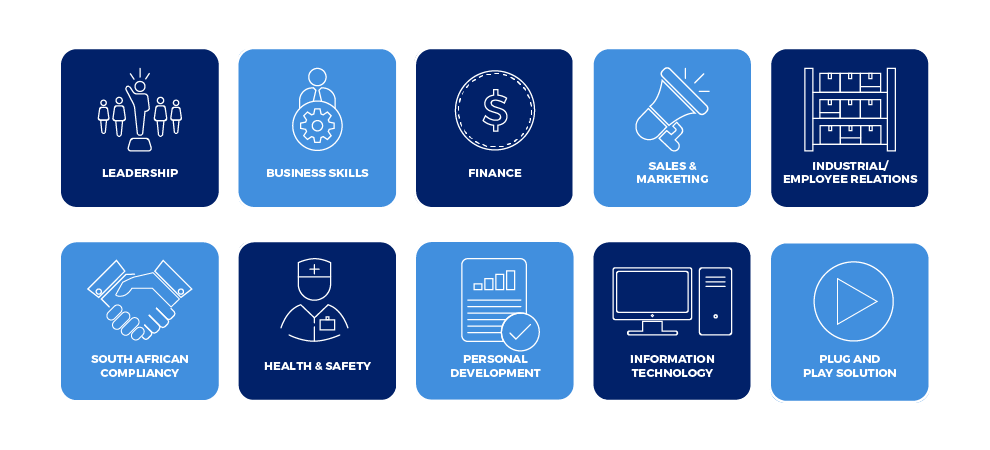
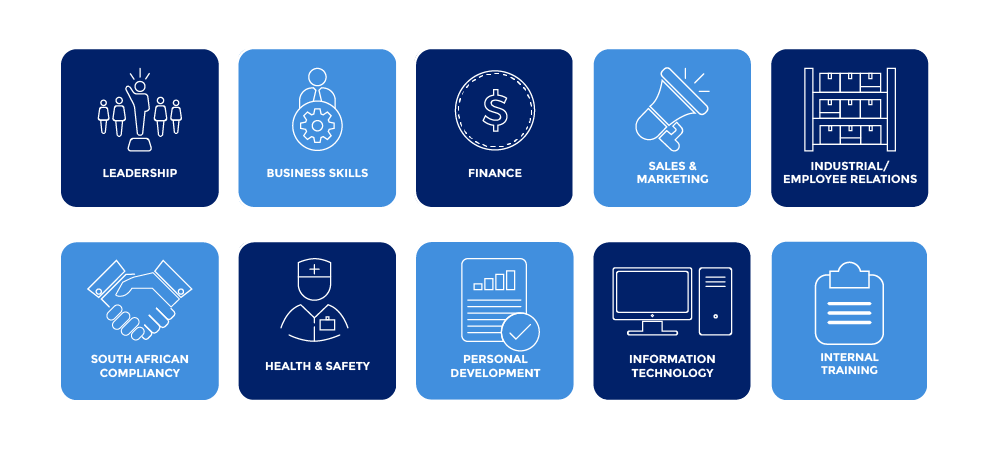
Add files via upload

diff --git a/css/index.css b/css/index.css
@@ -1,1 +1,1 @@
-.version.index{color:#0000F5;background-color:#93675B;}#page{z-index:1;width:989px;min-height:405px;background-image:none;border-width:0px;border-color:#000000;background-color:transparent;margin-left:auto;margin-right:auto;}#u94{z-index:2;width:990px;background-color:transparent;position:relative;margin-right:-10000px;margin-top:-44px;}#u104{z-index:4;width:150px;height:154px;-webkit-transition-duration:1s;-webkit-transition-delay:0s;-webkit-transition-timing-function:ease-in-out;transition-duration:1s;transition-delay:0s;transition-timing-function:ease-in-out;background-image:url("../images/blank.gif?crc=4208392903");background-color:transparent;opacity:0.42;-ms-filter:"progid:DXImageTransform.Microsoft.Alpha(Opacity=42)";filter:alpha(opacity=42);border-radius:25px;position:relative;margin-right:-10000px;margin-top:7px;left:419px;}.ie #u104{background-color:#FFFFFF;opacity:0.01;-ms-filter:"progid:DXImageTransform.Microsoft.Alpha(Opacity=1)";filter:alpha(opacity=1);}#u104:hover{background-color:#012169;opacity:0.65;-ms-filter:"progid:DXImageTransform.Microsoft.Alpha(Opacity=65)";filter:alpha(opacity=65);border-radius:17px;width:150px;height:154px;min-height:0px;margin:7px -10000px 0px 0px;}.ie #u104:hover{opacity:0.65;-ms-filter:"progid:DXImageTransform.Microsoft.Alpha(Opacity=65)";filter:alpha(opacity=65);}#u104:active{-webkit-transition-duration:1s;-webkit-transition-delay:0s;-webkit-transition-timing-function:ease-in-out;transition-duration:1s;transition-delay:0s;transition-timing-function:ease-in-out;background-color:#012169;opacity:0.65;-ms-filter:"progid:DXImageTransform.Microsoft.Alpha(Opacity=65)";filter:alpha(opacity=65);border-radius:17px;width:150px;height:154px;min-height:0px;margin:7px -10000px 0px 0px;}#u121{z-index:5;width:154px;height:153px;-webkit-transition-duration:1s;-webkit-transition-delay:0s;-webkit-transition-timing-function:ease-in-out;transition-duration:1s;transition-delay:0s;transition-timing-function:ease-in-out;background-image:url("../images/blank.gif?crc=4208392903");background-color:transparent;opacity:0.42;-ms-filter:"progid:DXImageTransform.Microsoft.Alpha(Opacity=42)";filter:alpha(opacity=42);border-radius:25px;position:relative;margin-right:-10000px;margin-top:8px;left:62px;}.ie #u121{background-color:#FFFFFF;opacity:0.01;-ms-filter:"progid:DXImageTransform.Microsoft.Alpha(Opacity=1)";filter:alpha(opacity=1);}#u121:hover{-webkit-transition-duration:1s;-webkit-transition-delay:0s;-webkit-transition-timing-function:ease-in-out;transition-duration:1s;transition-delay:0s;transition-timing-function:ease-in-out;background-color:#012169;opacity:0.65;-ms-filter:"progid:DXImageTransform.Microsoft.Alpha(Opacity=65)";filter:alpha(opacity=65);border-radius:17px;width:154px;height:153px;min-height:0px;margin:8px -10000px 0px 0px;}#u130{z-index:6;width:153px;height:155px;-webkit-transition-duration:1s;-webkit-transition-delay:0s;-webkit-transition-timing-function:ease-in-out;transition-duration:1s;transition-delay:0s;transition-timing-function:ease-in-out;background-image:url("../images/blank.gif?crc=4208392903");background-color:transparent;opacity:0.42;-ms-filter:"progid:DXImageTransform.Microsoft.Alpha(Opacity=42)";filter:alpha(opacity=42);border-radius:25px;position:relative;margin-right:-10000px;margin-top:199px;left:240px;}.ie #u130{background-color:#FFFFFF;opacity:0.01;-ms-filter:"progid:DXImageTransform.Microsoft.Alpha(Opacity=1)";filter:alpha(opacity=1);}#u130:hover{-webkit-transition-duration:1s;-webkit-transition-delay:0s;-webkit-transition-timing-function:ease-in-out;transition-duration:1s;transition-delay:0s;transition-timing-function:ease-in-out;background-color:#012169;opacity:0.65;-ms-filter:"progid:DXImageTransform.Microsoft.Alpha(Opacity=65)";filter:alpha(opacity=65);border-radius:17px;width:153px;height:155px;min-height:0px;margin:199px -10000px 0px 0px;}#u136{z-index:7;width:155px;height:155px;-webkit-transition-duration:1s;-webkit-transition-delay:0s;-webkit-transition-timing-function:ease-in-out;transition-duration:1s;transition-delay:0s;transition-timing-function:ease-in-out;background-image:url("../images/blank.gif?crc=4208392903");background-color:transparent;opacity:0.42;-ms-filter:"progid:DXImageTransform.Microsoft.Alpha(Opacity=42)";filter:alpha(opacity=42);border-radius:25px;position:relative;margin-right:-10000px;margin-top:200px;left:594px;}.ie #u136{background-color:#FFFFFF;opacity:0.01;-ms-filter:"progid:DXImageTransform.Microsoft.Alpha(Opacity=1)";filter:alpha(opacity=1);}#u136:hover{-webkit-transition-duration:1s;-webkit-transition-delay:0s;-webkit-transition-timing-function:ease-in-out;transition-duration:1s;transition-delay:0s;transition-timing-function:ease-in-out;background-color:#012169;opacity:0.65;-ms-filter:"progid:DXImageTransform.Microsoft.Alpha(Opacity=65)";filter:alpha(opacity=65);border-radius:17px;width:155px;height:155px;min-height:0px;margin:200px -10000px 0px 0px;}#u118{z-index:8;width:153px;height:154px;-webkit-transition-duration:1s;-webkit-transition-delay:0s;-webkit-transition-timing-function:ease-in-out;transition-duration:1s;transition-delay:0s;transition-timing-function:ease-in-out;background-image:url("../images/blank.gif?crc=4208392903");background-color:transparent;opacity:0.42;-ms-filter:"progid:DXImageTransform.Microsoft.Alpha(Opacity=42)";filter:alpha(opacity=42);border-radius:25px;position:relative;margin-right:-10000px;margin-top:7px;left:773px;}.ie #u118{background-color:#FFFFFF;opacity:0.01;-ms-filter:"progid:DXImageTransform.Microsoft.Alpha(Opacity=1)";filter:alpha(opacity=1);}#u118:hover{background-color:#012169;opacity:0.65;-ms-filter:"progid:DXImageTransform.Microsoft.Alpha(Opacity=65)";filter:alpha(opacity=65);border-radius:17px;width:153px;height:154px;min-height:0px;margin:7px -10000px 0px 0px;}#u107{z-index:9;width:155px;height:154px;-webkit-transition-duration:1s;-webkit-transition-delay:0s;-webkit-transition-timing-function:ease-in-out;transition-duration:1s;transition-delay:0s;transition-timing-function:ease-in-out;background-image:url("../images/blank.gif?crc=4208392903");background-color:transparent;opacity:0.42;-ms-filter:"progid:DXImageTransform.Microsoft.Alpha(Opacity=42)";filter:alpha(opacity=42);border-radius:25px;position:relative;margin-right:-10000px;margin-top:7px;left:595px;}.ie #u107{background-color:#FFFFFF;opacity:0.01;-ms-filter:"progid:DXImageTransform.Microsoft.Alpha(Opacity=1)";filter:alpha(opacity=1);}#u107:hover{background-color:#418FDE;opacity:0.65;-ms-filter:"progid:DXImageTransform.Microsoft.Alpha(Opacity=65)";filter:alpha(opacity=65);border-radius:17px;width:155px;height:154px;min-height:0px;margin:7px -10000px 0px 0px;}#u124{z-index:10;width:153px;height:153px;-webkit-transition-duration:1s;-webkit-transition-delay:0s;-webkit-transition-timing-function:ease-in-out;transition-duration:1s;transition-delay:0s;transition-timing-function:ease-in-out;background-image:url("../images/blank.gif?crc=4208392903");background-color:transparent;opacity:0.42;-ms-filter:"progid:DXImageTransform.Microsoft.Alpha(Opacity=42)";filter:alpha(opacity=42);border-radius:25px;position:relative;margin-right:-10000px;margin-top:8px;left:240px;}.ie #u124{background-color:#FFFFFF;opacity:0.01;-ms-filter:"progid:DXImageTransform.Microsoft.Alpha(Opacity=1)";filter:alpha(opacity=1);}#u124:hover{background-color:#418FDE;opacity:0.65;-ms-filter:"progid:DXImageTransform.Microsoft.Alpha(Opacity=65)";filter:alpha(opacity=65);border-radius:17px;width:153px;height:153px;min-height:0px;margin:8px -10000px 0px 0px;}#u127{z-index:11;width:150px;height:150px;-webkit-transition-duration:1s;-webkit-transition-delay:0s;-webkit-transition-timing-function:ease-in-out;transition-duration:1s;transition-delay:0s;transition-timing-function:ease-in-out;background-image:url("../images/blank.gif?crc=4208392903");background-color:transparent;opacity:0.42;-ms-filter:"progid:DXImageTransform.Microsoft.Alpha(Opacity=42)";filter:alpha(opacity=42);border-radius:25px;position:relative;margin-right:-10000px;margin-top:202px;left:419px;}.ie #u127{background-color:#FFFFFF;opacity:0.01;-ms-filter:"progid:DXImageTransform.Microsoft.Alpha(Opacity=1)";filter:alpha(opacity=1);}#u127:hover{background-color:#418FDE;opacity:0.65;-ms-filter:"progid:DXImageTransform.Microsoft.Alpha(Opacity=65)";filter:alpha(opacity=65);border-radius:17px;width:150px;height:150px;min-height:0px;margin:202px -10000px 0px 0px;}#u139{z-index:12;width:153px;height:155px;-webkit-transition-duration:1s;-webkit-transition-delay:0s;-webkit-transition-timing-function:ease-in-out;transition-duration:1s;transition-delay:0s;transition-timing-function:ease-in-out;background-image:url("../images/blank.gif?crc=4208392903");background-color:transparent;opacity:0.42;-ms-filter:"progid:DXImageTransform.Microsoft.Alpha(Opacity=42)";filter:alpha(opacity=42);border-radius:25px;position:relative;margin-right:-10000px;margin-top:201px;left:773px;}.ie #u139{background-color:#FFFFFF;opacity:0.01;-ms-filter:"progid:DXImageTransform.Microsoft.Alpha(Opacity=1)";filter:alpha(opacity=1);}#u139:hover{background-color:#418FDE;opacity:0.65;-ms-filter:"progid:DXImageTransform.Microsoft.Alpha(Opacity=65)";filter:alpha(opacity=65);border-radius:17px;width:153px;height:155px;min-height:0px;margin:201px -10000px 0px 0px;}#u148{z-index:13;width:154px;height:155px;-webkit-transition-duration:1s;-webkit-transition-delay:0s;-webkit-transition-timing-function:ease-in-out;transition-duration:1s;transition-delay:0s;transition-timing-function:ease-in-out;background-image:url("../images/blank.gif?crc=4208392903");background-color:transparent;opacity:0.42;-ms-filter:"progid:DXImageTransform.Microsoft.Alpha(Opacity=42)";filter:alpha(opacity=42);border-radius:25px;position:relative;margin-right:-10000px;margin-top:199px;left:62px;}.ie #u148{background-color:#FFFFFF;opacity:0.01;-ms-filter:"progid:DXImageTransform.Microsoft.Alpha(Opacity=1)";filter:alpha(opacity=1);}#u148:hover{background-color:#418FDE;opacity:0.65;-ms-filter:"progid:DXImageTransform.Microsoft.Alpha(Opacity=65)";filter:alpha(opacity=65);border-radius:17px;width:154px;height:155px;min-height:0px;margin:199px -10000px 0px 0px;}.ie #u104:active,.ie #u121:hover,.ie #u130:hover,.ie #u136:hover,.ie #u118:hover,.ie #u107:hover,.ie #u124:hover,.ie #u127:hover,.ie #u139:hover,.ie #u148:hover{opacity:0.65;-ms-filter:"progid:DXImageTransform.Microsoft.Alpha(Opacity=65)";filter:alpha(opacity=65);}#u168{z-index:14;width:194px;height:206px;background-color:#FFFFFF;position:relative;margin-right:-10000px;margin-top:181px;left:759px;}.css_verticalspacer .verticalspacer{height:calc(100vh - 405px);}#muse_css_mq,.html{background-color:#FFFFFF;}body{position:relative;min-width:989px;}
+.version.index{color:#00001A;background-color:#850B7C;}#page{z-index:1;width:990px;min-height:566.9772727272731px;background-image:none;border-width:0px;border-color:#000000;background-color:transparent;padding-bottom:0px;margin-left:auto;margin-right:auto;}#page_position_content{margin-top:-247px;padding-bottom:364px;width:0.01px;}.css_verticalspacer .verticalspacer{height:calc(100vh - 567px);}#u307{z-index:2;width:990px;border-width:0px;border-color:transparent;background-color:transparent;position:relative;}#u260{z-index:3;width:990px;background-color:transparent;position:relative;margin-right:-10000px;}#u304{z-index:5;width:865px;border-width:0px;border-color:transparent;background-color:transparent;position:relative;margin-right:-10000px;margin-top:50px;left:63px;}#pu226{z-index:7;width:0.01px;margin-right:-10000px;margin-top:1px;}#u226{z-index:7;width:158px;height:158px;-webkit-transition-duration:1s;-webkit-transition-delay:0s;-webkit-transition-timing-function:ease-in-out;transition-duration:1s;transition-delay:0s;transition-timing-function:ease-in-out;background-image:url("../images/blank.gif?crc=4208392903");background-color:transparent;opacity:0.42;-ms-filter:"progid:DXImageTransform.Microsoft.Alpha(Opacity=42)";filter:alpha(opacity=42);border-radius:17px;position:relative;}.ie #u226{background-color:#FFFFFF;opacity:0.01;-ms-filter:"progid:DXImageTransform.Microsoft.Alpha(Opacity=1)";filter:alpha(opacity=1);}#u226:hover{-webkit-transition-duration:1s;-webkit-transition-delay:0s;-webkit-transition-timing-function:ease-in-out;transition-duration:1s;transition-delay:0s;transition-timing-function:ease-in-out;background-color:#012169;opacity:0.65;-ms-filter:"progid:DXImageTransform.Microsoft.Alpha(Opacity=65)";filter:alpha(opacity=65);border-radius:17px;width:158px;height:158px;min-height:0px;margin:0px;}#u229{z-index:15;width:157px;height:157px;-webkit-transition-duration:1s;-webkit-transition-delay:0s;-webkit-transition-timing-function:ease-in-out;transition-duration:1s;transition-delay:0s;transition-timing-function:ease-in-out;background-image:url("../images/blank.gif?crc=4208392903");background-color:transparent;opacity:0.42;-ms-filter:"progid:DXImageTransform.Microsoft.Alpha(Opacity=42)";filter:alpha(opacity=42);border-radius:15px;margin-left:1px;margin-top:35px;position:relative;}.ie #u229{background-color:#FFFFFF;opacity:0.01;-ms-filter:"progid:DXImageTransform.Microsoft.Alpha(Opacity=1)";filter:alpha(opacity=1);}#u229:hover{background-color:#418FDE;opacity:0.65;-ms-filter:"progid:DXImageTransform.Microsoft.Alpha(Opacity=65)";filter:alpha(opacity=65);border-radius:17px;width:157px;height:157px;min-height:0px;margin:35px 0px 0px 1px;}#pu236{z-index:12;width:0.01px;margin-right:-10000px;margin-left:178px;}#u236{z-index:12;width:156px;height:159px;-webkit-transition-duration:1s;-webkit-transition-delay:0s;-webkit-transition-timing-function:ease-in-out;transition-duration:1s;transition-delay:0s;transition-timing-function:ease-in-out;background-image:url("../images/blank.gif?crc=4208392903");background-color:transparent;opacity:0.42;-ms-filter:"progid:DXImageTransform.Microsoft.Alpha(Opacity=42)";filter:alpha(opacity=42);border-radius:14px;position:relative;}.ie #u236{background-color:#FFFFFF;opacity:0.01;-ms-filter:"progid:DXImageTransform.Microsoft.Alpha(Opacity=1)";filter:alpha(opacity=1);}#u236:hover{background-color:#418FDE;opacity:0.65;-ms-filter:"progid:DXImageTransform.Microsoft.Alpha(Opacity=65)";filter:alpha(opacity=65);border-radius:17px;width:156px;height:159px;min-height:0px;margin:0px;}#u227{z-index:8;width:156px;height:158px;-webkit-transition-duration:1s;-webkit-transition-delay:0s;-webkit-transition-timing-function:ease-in-out;transition-duration:1s;transition-delay:0s;transition-timing-function:ease-in-out;background-image:url("../images/blank.gif?crc=4208392903");background-color:transparent;opacity:0.42;-ms-filter:"progid:DXImageTransform.Microsoft.Alpha(Opacity=42)";filter:alpha(opacity=42);border-radius:14px;margin-top:34px;position:relative;}.ie #u227{background-color:#FFFFFF;opacity:0.01;-ms-filter:"progid:DXImageTransform.Microsoft.Alpha(Opacity=1)";filter:alpha(opacity=1);}#u227:hover{-webkit-transition-duration:1s;-webkit-transition-delay:0s;-webkit-transition-timing-function:ease-in-out;transition-duration:1s;transition-delay:0s;transition-timing-function:ease-in-out;background-color:#012169;opacity:0.65;-ms-filter:"progid:DXImageTransform.Microsoft.Alpha(Opacity=65)";filter:alpha(opacity=65);border-radius:17px;width:156px;height:158px;min-height:0px;margin:34px 0px 0px;}#pu225{z-index:6;width:0.01px;margin-right:-10000px;margin-top:1px;margin-left:355px;}#u225{z-index:6;width:156px;height:157px;-webkit-transition-duration:1s;-webkit-transition-delay:0s;-webkit-transition-timing-function:ease-in-out;transition-duration:1s;transition-delay:0s;transition-timing-function:ease-in-out;background-image:url("../images/blank.gif?crc=4208392903");background-color:transparent;opacity:0.42;-ms-filter:"progid:DXImageTransform.Microsoft.Alpha(Opacity=42)";filter:alpha(opacity=42);border-radius:14px;position:relative;}.ie #u225{background-color:#FFFFFF;opacity:0.01;-ms-filter:"progid:DXImageTransform.Microsoft.Alpha(Opacity=1)";filter:alpha(opacity=1);}#u225:hover{background-color:#012169;opacity:0.65;-ms-filter:"progid:DXImageTransform.Microsoft.Alpha(Opacity=65)";filter:alpha(opacity=65);border-radius:17px;width:156px;height:157px;min-height:0px;margin:0px;}.ie #u226:hover,.ie #u229:hover,.ie #u236:hover,.ie #u227:hover,.ie #u225:hover{opacity:0.65;-ms-filter:"progid:DXImageTransform.Microsoft.Alpha(Opacity=65)";filter:alpha(opacity=65);}#u225:active{-webkit-transition-duration:1s;-webkit-transition-delay:0s;-webkit-transition-timing-function:ease-in-out;transition-duration:1s;transition-delay:0s;transition-timing-function:ease-in-out;background-color:#012169;opacity:0.65;-ms-filter:"progid:DXImageTransform.Microsoft.Alpha(Opacity=65)";filter:alpha(opacity=65);border-radius:17px;width:156px;height:157px;min-height:0px;margin:0px;}#u235{z-index:13;width:157px;height:157px;-webkit-transition-duration:1s;-webkit-transition-delay:0s;-webkit-transition-timing-function:ease-in-out;transition-duration:1s;transition-delay:0s;transition-timing-function:ease-in-out;background-image:url("../images/blank.gif?crc=4208392903");background-color:transparent;opacity:0.42;-ms-filter:"progid:DXImageTransform.Microsoft.Alpha(Opacity=42)";filter:alpha(opacity=42);border-radius:13px;margin-top:36px;position:relative;}.ie #u235{background-color:#FFFFFF;opacity:0.01;-ms-filter:"progid:DXImageTransform.Microsoft.Alpha(Opacity=1)";filter:alpha(opacity=1);}#u235:hover{background-color:#418FDE;opacity:0.65;-ms-filter:"progid:DXImageTransform.Microsoft.Alpha(Opacity=65)";filter:alpha(opacity=65);border-radius:17px;width:157px;height:157px;min-height:0px;margin:36px 0px 0px;}#pu232{z-index:11;width:0.01px;margin-right:-10000px;margin-top:2px;margin-left:532px;}#u232{z-index:11;width:157px;height:157px;-webkit-transition-duration:1s;-webkit-transition-delay:0s;-webkit-transition-timing-function:ease-in-out;transition-duration:1s;transition-delay:0s;transition-timing-function:ease-in-out;background-image:url("../images/blank.gif?crc=4208392903");background-color:transparent;opacity:0.42;-ms-filter:"progid:DXImageTransform.Microsoft.Alpha(Opacity=42)";filter:alpha(opacity=42);border-radius:13px;position:relative;}.ie #u232{background-color:#FFFFFF;opacity:0.01;-ms-filter:"progid:DXImageTransform.Microsoft.Alpha(Opacity=1)";filter:alpha(opacity=1);}#u232:hover{background-color:#418FDE;opacity:0.65;-ms-filter:"progid:DXImageTransform.Microsoft.Alpha(Opacity=65)";filter:alpha(opacity=65);border-radius:17px;width:157px;height:157px;min-height:0px;margin:0px;}#u228{z-index:9;width:157px;height:157px;-webkit-transition-duration:1s;-webkit-transition-delay:0s;-webkit-transition-timing-function:ease-in-out;transition-duration:1s;transition-delay:0s;transition-timing-function:ease-in-out;background-image:url("../images/blank.gif?crc=4208392903");background-color:transparent;opacity:0.42;-ms-filter:"progid:DXImageTransform.Microsoft.Alpha(Opacity=42)";filter:alpha(opacity=42);border-radius:14px;margin-top:35px;position:relative;}.ie #u228{background-color:#FFFFFF;opacity:0.01;-ms-filter:"progid:DXImageTransform.Microsoft.Alpha(Opacity=1)";filter:alpha(opacity=1);}#u228:hover{-webkit-transition-duration:1s;-webkit-transition-delay:0s;-webkit-transition-timing-function:ease-in-out;transition-duration:1s;transition-delay:0s;transition-timing-function:ease-in-out;background-color:#012169;opacity:0.65;-ms-filter:"progid:DXImageTransform.Microsoft.Alpha(Opacity=65)";filter:alpha(opacity=65);border-radius:17px;width:157px;height:157px;min-height:0px;margin:35px 0px 0px;}#pu237{z-index:10;width:0.01px;margin-right:-10000px;margin-top:1px;margin-left:709px;}#u237{z-index:10;width:156px;height:158px;-webkit-transition-duration:1s;-webkit-transition-delay:0s;-webkit-transition-timing-function:ease-in-out;transition-duration:1s;transition-delay:0s;transition-timing-function:ease-in-out;background-image:url("../images/blank.gif?crc=4208392903");background-color:transparent;opacity:0.42;-ms-filter:"progid:DXImageTransform.Microsoft.Alpha(Opacity=42)";filter:alpha(opacity=42);border-radius:13px;position:relative;}.ie #u237{background-color:#FFFFFF;opacity:0.01;-ms-filter:"progid:DXImageTransform.Microsoft.Alpha(Opacity=1)";filter:alpha(opacity=1);}#u237:hover{background-color:#012169;opacity:0.65;-ms-filter:"progid:DXImageTransform.Microsoft.Alpha(Opacity=65)";filter:alpha(opacity=65);border-radius:17px;width:156px;height:158px;min-height:0px;margin:0px;}#u231{z-index:14;width:154px;height:158px;-webkit-transition-duration:1s;-webkit-transition-delay:0s;-webkit-transition-timing-function:ease-in-out;transition-duration:1s;transition-delay:0s;transition-timing-function:ease-in-out;background-image:url("../images/blank.gif?crc=4208392903");background-color:transparent;opacity:0.42;-ms-filter:"progid:DXImageTransform.Microsoft.Alpha(Opacity=42)";filter:alpha(opacity=42);border-radius:14px;margin-left:1px;margin-top:34px;position:relative;}.ie #u231{background-color:#FFFFFF;opacity:0.01;-ms-filter:"progid:DXImageTransform.Microsoft.Alpha(Opacity=1)";filter:alpha(opacity=1);}#u231:hover{background-color:#418FDE;opacity:0.65;-ms-filter:"progid:DXImageTransform.Microsoft.Alpha(Opacity=65)";filter:alpha(opacity=65);border-radius:17px;width:154px;height:158px;min-height:0px;margin:34px 0px 0px 1px;}.ie #u225:active,.ie #u235:hover,.ie #u232:hover,.ie #u228:hover,.ie #u237:hover,.ie #u231:hover{opacity:0.65;-ms-filter:"progid:DXImageTransform.Microsoft.Alpha(Opacity=65)";filter:alpha(opacity=65);}#muse_css_mq,.html{background-color:#FFFFFF;}body{position:relative;min-width:990px;}

diff --git a/index.html b/index.html
@@ -16,26 +16,41 @@ if(typeof Muse == "undefined") window.Muse = {}; window.Muse.assets = {"required
   <title>Home</title>
   <!-- CSS -->
   <link rel="stylesheet" type="text/css" href="css/site_global.css?crc=444006867"/>
-  <link rel="stylesheet" type="text/css" href="css/index.css?crc=4120078171" id="pagesheet"/>
+  <link rel="stylesheet" type="text/css" href="css/index.css?crc=444926844" id="pagesheet"/>
    </head>
  <body>
 
-  <div class="clearfix" id="page"><!-- group -->
-   <div class="clip_frame grpelem" id="u94"><!-- image -->
-    <img class="block" id="u94_img" src="images/library_2018.png?crc=434819501" alt="" width="990" height="450"/>
+  <div class="clearfix" id="page"><!-- column -->
+   <div class="position_content" id="page_position_content">
+    <div class="verticalspacer" data-offset-top="0" data-content-above-spacer="-246" data-content-below-spacer="813"></div>
+    <div class="clearfix colelem" id="u307"><!-- group -->
+     <div class="clip_frame grpelem" id="u260"><!-- image -->
+      <img class="block" id="u260_img" src="images/library_2018.png?crc=4170964817" alt="" width="990" height="450"/>
+     </div>
+     <div class="clearfix grpelem" id="u304"><!-- group -->
+      <div class="clearfix grpelem" id="pu226"><!-- column -->
+       <a class="nonblock nontext transition colelem" id="u226" href="https://pharmadynamics.eu.crossknowledge.com/site/search/results#context=training&amp;lang=en&amp;chapter=2" target="_blank"><!-- simple frame --></a>
+       <a class="nonblock nontext transition colelem" id="u229" href="https://pharmadynamics.eu.crossknowledge.com/site/search/results#context=training&amp;lang=en&amp;fetchSecondLanguage=true&amp;chapter=13&amp;sort=default" target="_blank"><!-- simple frame --></a>
+      </div>
+      <div class="clearfix grpelem" id="pu236"><!-- column -->
+       <a class="nonblock nontext transition colelem" id="u236" href="https://pharmadynamics.eu.crossknowledge.com/site/search/results#context=training&amp;lang=en&amp;chapter=3" target="_blank"><!-- simple frame --></a>
+       <a class="nonblock nontext transition colelem" id="u227" href="https://estudy.eu.crossknowledge.com/site/search/results#context=training&amp;lang=en&amp;chapter=22" target="_blank"><!-- simple frame --></a>
+      </div>
+      <div class="clearfix grpelem" id="pu225"><!-- column -->
+       <a class="nonblock nontext transition colelem" id="u225" href="https://pharmadynamics.eu.crossknowledge.com/site/search/results#context=training&amp;lang=en&amp;chapter=8" target="_blank"><!-- simple frame --></a>
+       <a class="nonblock nontext transition colelem" id="u235" href="https://pharmadynamics.eu.crossknowledge.com/site/search/results#context=training&amp;lang=en&amp;chapter=4" target="_blank"><!-- simple frame --></a>
+      </div>
+      <div class="clearfix grpelem" id="pu232"><!-- column -->
+       <a class="nonblock nontext transition colelem" id="u232" href="https://pharmadynamics.eu.crossknowledge.com/site/search/results#context=training&amp;lang=en&amp;chapter=5" target="_blank"><!-- simple frame --></a>
+       <a class="nonblock nontext transition colelem" id="u228" href="https://pharmadynamics.eu.crossknowledge.com/site/search/results#context=training&amp;lang=en&amp;chapter=1" target="_blank"><!-- simple frame --></a>
+      </div>
+      <div class="clearfix grpelem" id="pu237"><!-- column -->
+       <a class="nonblock nontext transition colelem" id="u237" href="https://pharmadynamics.eu.crossknowledge.com/site/search/results#context=training&amp;lang=en&amp;chapter=7" target="_blank"><!-- simple frame --></a>
+       <a class="nonblock nontext transition colelem" id="u231" href="https://pharmadynamics.eu.crossknowledge.com/site/search/results#context=training&amp;lang=en&amp;fetchSecondLanguage=true&amp;chapter=9&amp;registration-status=not_registered&amp;sort=default" target="_blank"><!-- simple frame --></a>
+      </div>
+     </div>
+    </div>
    </div>
-   <a class="nonblock nontext transition grpelem" id="u104" href="https://pharmadynamics.eu.crossknowledge.com/site/search/results#context=training&amp;lang=en&amp;chapter=8" target="_blank"><!-- simple frame --></a>
-   <a class="nonblock nontext transition grpelem" id="u121" href="https://pharmadynamics.eu.crossknowledge.com/site/search/results#context=training&amp;lang=en&amp;chapter=2" target="_blank"><!-- simple frame --></a>
-   <a class="nonblock nontext transition grpelem" id="u130" href="https://estudy.eu.crossknowledge.com/site/search/results#context=training&amp;lang=en&amp;chapter=22" target="_blank"><!-- simple frame --></a>
-   <a class="nonblock nontext transition grpelem" id="u136" href="https://pharmadynamics.eu.crossknowledge.com/site/search/results#context=training&amp;lang=en&amp;chapter=1" target="_blank"><!-- simple frame --></a>
-   <a class="nonblock nontext transition grpelem" id="u118" href="https://pharmadynamics.eu.crossknowledge.com/site/search/results#context=training&amp;lang=en&amp;chapter=7" target="_blank"><!-- simple frame --></a>
-   <a class="nonblock nontext transition grpelem" id="u107" href="https://pharmadynamics.eu.crossknowledge.com/site/search/results#context=training&amp;lang=en&amp;chapter=5" target="_blank"><!-- simple frame --></a>
-   <a class="nonblock nontext transition grpelem" id="u124" href="https://pharmadynamics.eu.crossknowledge.com/site/search/results#context=training&amp;lang=en&amp;chapter=3" target="_blank"><!-- simple frame --></a>
-   <a class="nonblock nontext transition grpelem" id="u127" href="https://pharmadynamics.eu.crossknowledge.com/site/search/results#context=training&amp;lang=en&amp;chapter=4" target="_blank"><!-- simple frame --></a>
-   <a class="nonblock nontext transition grpelem" id="u139" href="https://pharmadynamics.eu.crossknowledge.com/site/search/home" target="_blank"><!-- simple frame --></a>
-   <a class="nonblock nontext transition grpelem" id="u148" href="https://pharmadynamics.eu.crossknowledge.com/site/search/results#context=training&amp;lang=en&amp;fetchSecondLanguage=true&amp;chapter=13&amp;sort=default" target="_blank"><!-- simple frame --></a>
-   <div class="grpelem" id="u168"><!-- simple frame --></div>
-   <div class="verticalspacer" data-offset-top="406" data-content-above-spacer="405" data-content-below-spacer="0"></div>
   </div>
   <!-- Other scripts -->
   <script type="text/javascript">
